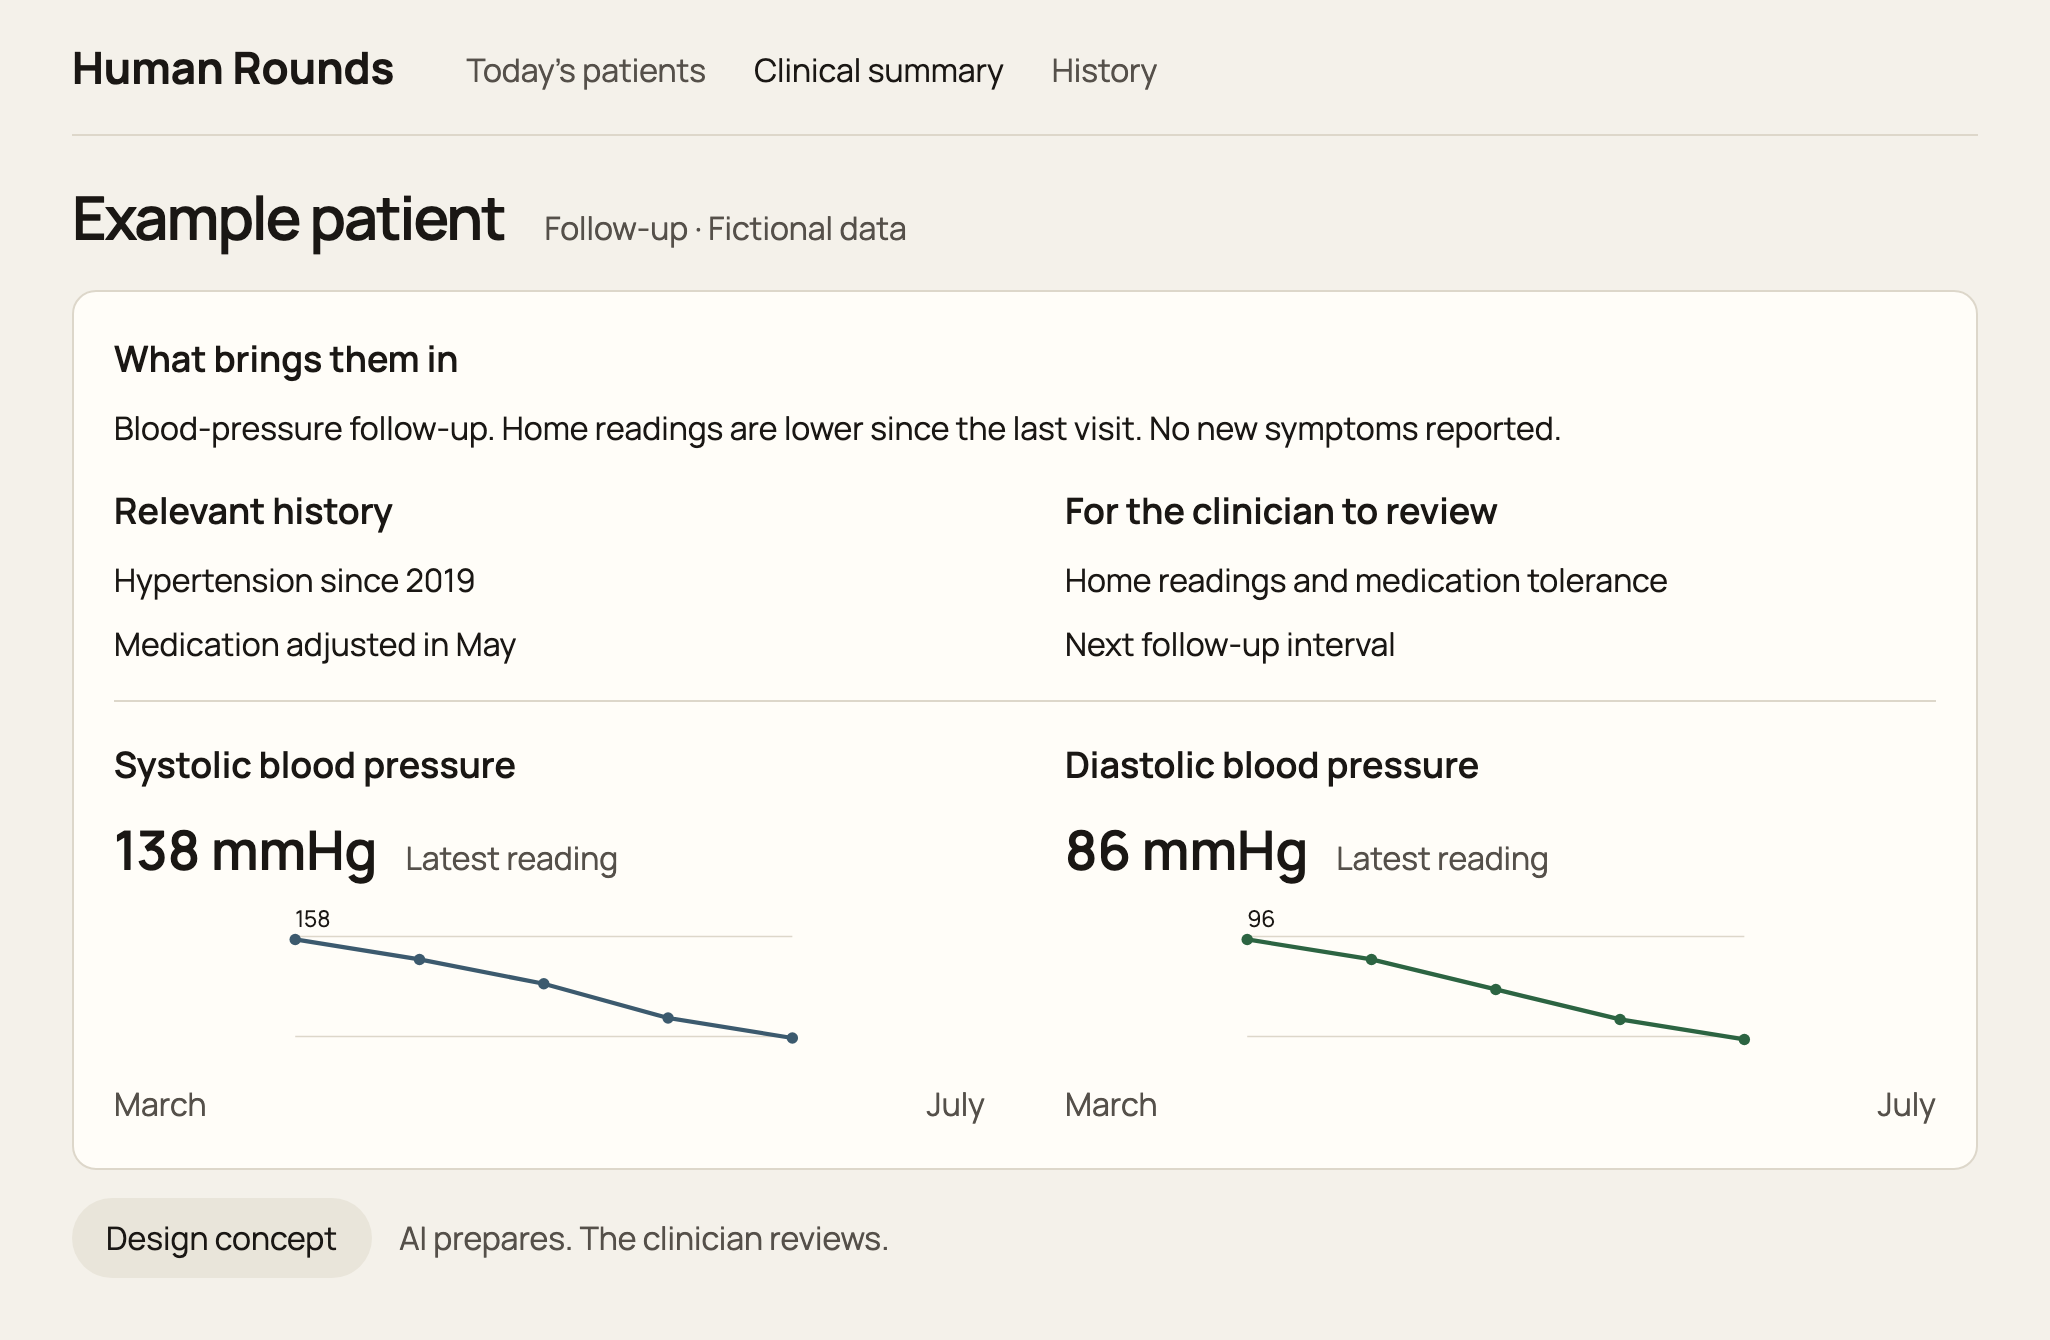
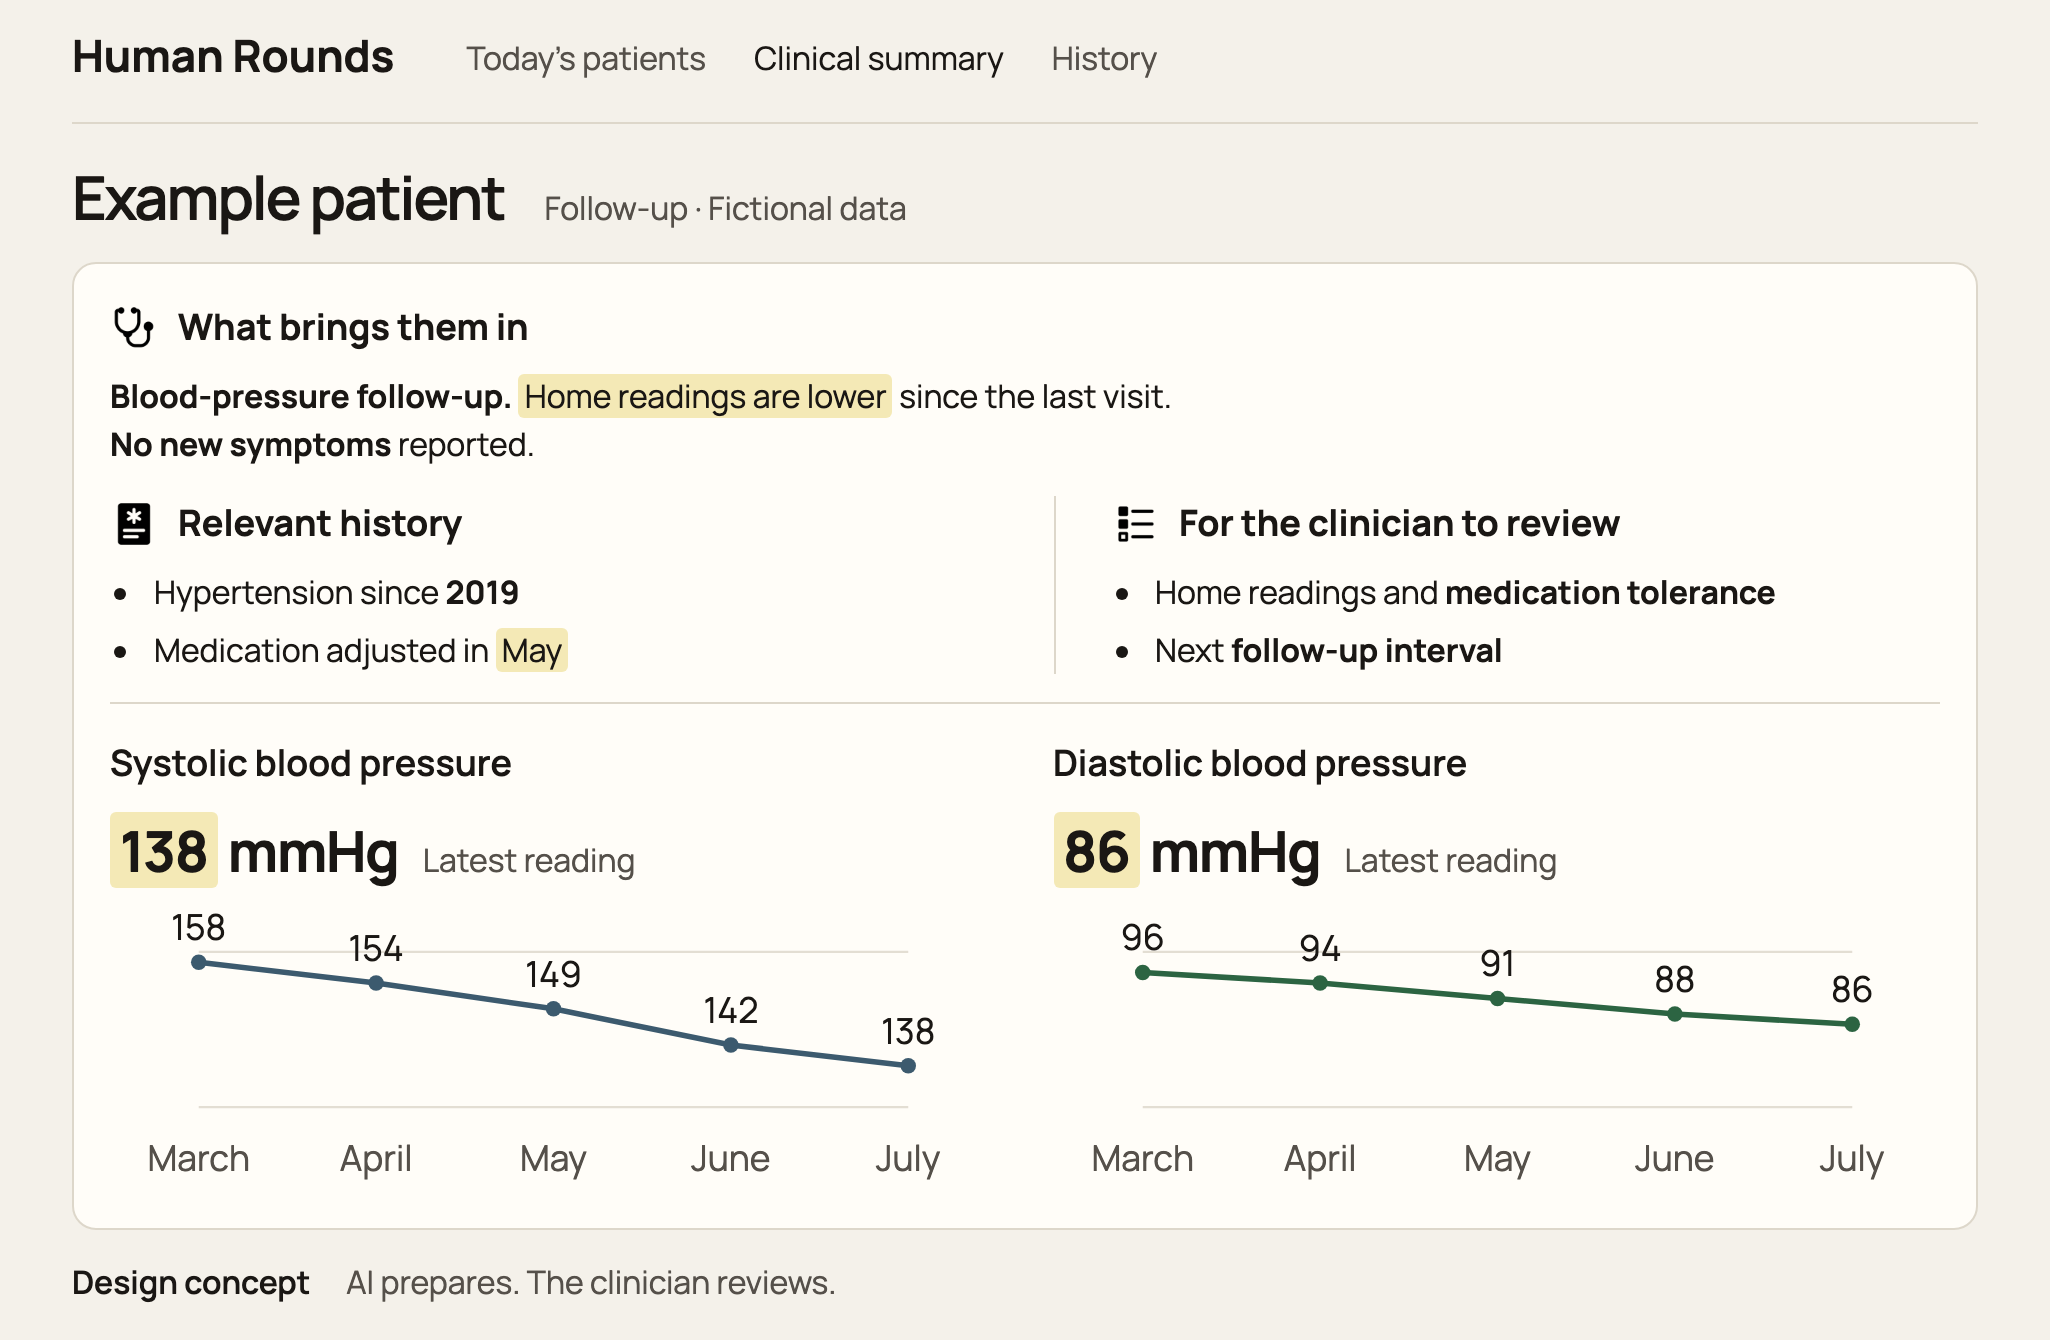
Improve clinical summary iconography and chart labeling

diff --git a/design-plans/clinical-summary-concept.dc.html b/design-plans/clinical-summary-concept.dc.html
@@ -1,0 +1,4 @@
+<!doctype html><html lang="en"><head><meta charset="utf-8"><meta name="viewport" content="width=device-width, initial-scale=1"><script src="./support.js"></script></head><body><x-dc><helmet><style>
+@import url('https://fonts.googleapis.com/css2?family=Manrope:wght@400;500;600;700&display=swap');
+*{box-sizing:border-box}body{margin:0;background:#f4f1ea;color:#1a1714;font:16px/1.5 Manrope,system-ui,sans-serif;text-wrap:pretty}a{color:inherit;text-decoration:underline;text-decoration-color:#bbb3a4}a:hover{text-decoration-color:#1a1714}.app{padding:12px 36px;max-width:1100px;margin:auto}.bar{display:flex;align-items:center;gap:36px;padding-bottom:16px;border-bottom:1px solid #ddd7ca}.brand{font-size:22px;font-weight:700}.nav{display:flex;gap:24px;color:#55504a}.active{color:#1a1714}.heading{display:flex;align-items:baseline;gap:20px;margin:14px 0 10px}h1{font-size:30px;letter-spacing:-1px;margin:0;font-weight:600}h2{font-size:18px;margin:0 0 9px;font-weight:700;display:flex;align-items:center;gap:10px}p{margin:0}.quiet{color:#55504a}.summary{display:grid;grid-template-columns:1fr 1fr;gap:14px 28px;background:#fffdf8;border:1px solid #ddd7ca;border-radius:12px;padding:18px}.reason{grid-column:1/-1}.section-icon{width:24px;height:24px;object-fit:contain;flex:none}.history{margin:0;padding-left:20px;display:grid;gap:5px}.history li{padding-left:2px}.review-points{border-left:1px solid #ddd7ca;padding-left:28px}.trend{grid-column:1/-1;border-top:1px solid #ddd7ca;padding-top:16px;display:grid;grid-template-columns:1fr 1fr;gap:28px}.trend h2{font-weight:600}.metric{display:flex;align-items:baseline;gap:12px;margin-bottom:10px}.value{font-size:28px;font-weight:700;letter-spacing:-.6px}.value mark{padding:0 5px}.chart{display:block;width:100%;height:auto;overflow:visible}.chart text{font-family:Manrope,system-ui,sans-serif;font-size:16px;fill:#1a1714}.chart .tick{fill:#55504a;font-size:15px}.chart .month{fill:#55504a;font-size:16px}.review{display:flex;gap:18px;align-items:center;margin-top:14px}.concept{font-weight:600}mark{background:#f4e9b6;color:inherit;border-radius:3px;box-decoration-break:clone;-webkit-box-decoration-break:clone;padding:0 3px}.review-points strong{font-weight:700}@media(max-width:650px){.app{padding:20px}.nav{display:none}.summary,.trend{grid-template-columns:1fr}.heading{display:block}.heading .quiet{display:block;margin-top:5px}.review-points{border-left:0;border-top:1px solid #ddd7ca;padding:18px 0 0}.trend{gap:24px}.review{flex-wrap:wrap;gap:6px 18px}.summary{padding:18px}.chart text,.chart .tick,.chart .month{font-size:18px}.metric{flex-wrap:wrap}}
[1 lines of base64/hex data omitted]

diff --git a/website/landing.html b/website/landing.html
@@ -20,7 +20,7 @@
   <link rel="preconnect" href="https://fonts.gstatic.com" crossorigin>
   <link href="https://fonts.googleapis.com/css2?family=IBM+Plex+Mono:wght@400;500&family=Manrope:wght@400;500;600;700;800&display=swap" rel="stylesheet">
   <link rel="stylesheet" href="/web/landing.css?v=19">
-  <link rel="stylesheet" href="/web/constellation.css?v=15">
+  <link rel="stylesheet" href="/web/constellation.css?v=16">
   <link rel="stylesheet" href="/web/public-footer.css?v=7">
   <script type="application/ld+json">
   {
@@ -109,8 +109,8 @@
         </article>
         <article class="comparison-item">
           <h3 data-market="oursTitle">Our direction: the patient at a glance</h3>
-          <a class="comparison-shot" href="/web/clinical-summary-concept.png" data-photozoom data-photozoom-group="clinical-comparison" data-photozoom-src="/web/clinical-summary-concept.png">
-            <img src="/web/clinical-summary-concept.png" alt="Human Rounds design concept with a structured summary and blood-pressure trends using fictional data" loading="lazy" width="1025" height="670">
+          <a class="comparison-shot" href="/web/clinical-summary-concept.png?v=20260925" data-photozoom data-photozoom-group="clinical-comparison" data-photozoom-src="/web/clinical-summary-concept.png?v=20260925">
+            <img src="/web/clinical-summary-concept.png?v=20260925" alt="Human Rounds design concept with a structured summary and blood-pressure trends using fictional data" loading="lazy" width="1025" height="670">
           </a>
           <p data-market="oursText">Relevant history, clear trends, and what needs attention. A design concept with fictional data; clinical-history graphs are on our roadmap.</p>
         </article>
@@ -334,7 +334,7 @@
   <script src="/web/i18n-extra.js?v=1"></script>
     <script src="/web/i18n-extra.js?v=1"></script>
     <script src="/web/landing.js?v=29"></script>
-  <script src="/web/constellation.js?v=15"></script>
+  <script src="/web/constellation.js?v=16"></script>
   <script src="/web/market-positioning.js?v=1"></script>
   <script src="/web/lib/photo-zoom.js?v=1"></script>
   <script src="/web/public-theme.js?v=1"></script>

diff --git a/design-plans/public-refresh-requirements.md b/design-plans/public-refresh-requirements.md
@@ -1,0 +1,24 @@
+# Public website refresh — 2026-09-20
+
+## Accepted requirements
+- Match the current demo theme, verified from demo.humanrounds.org/static/tokens.css: warm paper #f4f1ea, panels #fffdf8, ink #1a1714, understated neutral underlined links, Manrope interface typography.
+- Apply the shared visual treatment to the homepage, documentation, stories and legal pages. Preserve unrelated legal-page edits and the public mirror's uncommitted palette work.
+- Compare the supplied Abridge marketing example with Human Rounds' structured summaries and graphs. Critique the visible presentation, not unverified clinical outcomes or the entire competitor product.
+- Position the platform for emerging markets: the opportunity to build around current AI instead of inheriting legacy workflows. No claim of exemption from local law, clinical validation, privacy or responsibility.
+- Keep planned/prototyped/live status truthful. Clinical-history graphs remain a concept, not a shipped claim.
+- Preserve the existing integration illustration, country switching, roadmap, demo links, documentation, multilingual navigation and open-source destinations.
+- Screenshots published on the site come from Claude Design with fictional, non-identifiable data. Competitor image is its original public marketing asset, attributed through a linked title.
+- Compare images at equal dimensions; both open at full size. Phone layout stacks in reading order.
+
+## Recovered context
+- September 25 follow-up: add section icons, selective highlights and more scannable formatting to our clinical-summary image. Correct all month labels to align directly with the corresponding data points. Apply Gatto Nero's business-report-suite chart canon and Tufte rules; preserve all 10 fictional readings and the prototype status.
+- The September 25 chart uses two related panels with equal 30 mmHg spans and directly labeled values. Dates and points share the same SVG coordinates. No normal-range or causation claim is inferred.
+- Intake solution notes require illustrations to reflect actual demo component families and preserve complete-row responsive layouts.
+- Public mirror contains a partial September 16 palette update; incorporate its intended colors without overwriting it.
+- Live demo token comments record September 14–18 requests for Cursor-like beige, lighter headings, neutral links with faint underlines, and no bright accent on every link.
+- Previous constellation draft was restored; do not repeat or replace that work.
+
+## Sources
+- https://www.abridge.com/platform/clinicians (checked 2026-09-20): notes plus preparation, decision support and integration. Comparison explicitly concerns the pictured note, not a feature audit.
+- https://www.who.int/teams/digital-health-and-innovation/harnessing-artificial-intelligence-for-health (checked 2026-09-20): access and responsible adoption both matter.
+- Claude Design: Human Rounds / Prepared clinician and laboratory-result designs inform the summary concept.
